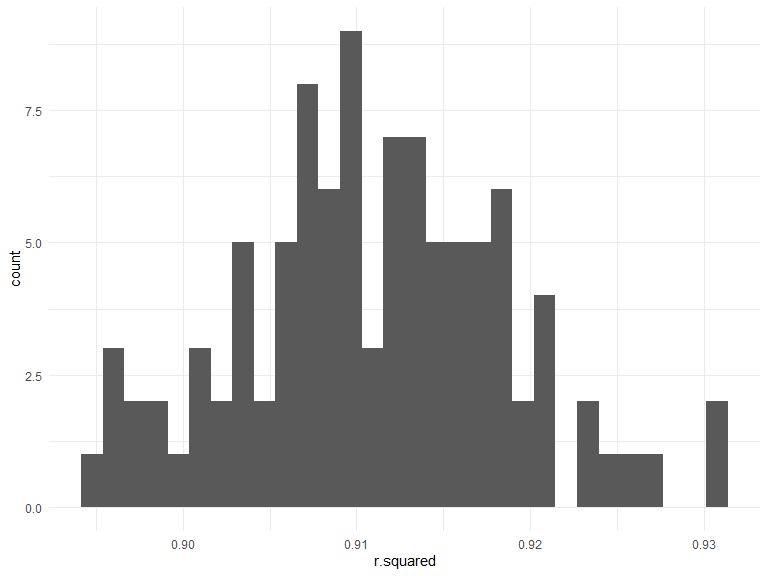
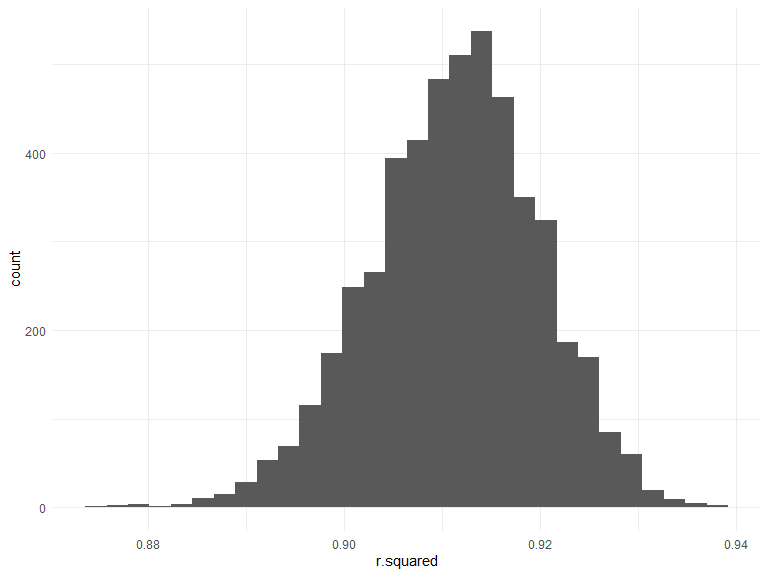
added 4900 bootstraps

diff --git a/p8105_hw6_jsg2145.md b/p8105_hw6_jsg2145.md
@@ -205,7 +205,7 @@ weather_df =
 set.seed(1)
 
 boot_df <- weather_df %>% 
-  bootstrap(n = 100) %>% 
+  bootstrap(n = 5000) %>% 
   mutate(
     models = map(strap, ~lm(tmax ~ tmin, data = .x) ),
     results = map(models, broom::glance),
@@ -224,7 +224,7 @@ boot_df %>%
 
 <img src="p8105_hw6_jsg2145_files/figure-gfm/unnamed-chunk-19-1.png" width="90%" />
 
-The 95% confidence interval of the r-squared estimates is (0.9, 0.93).
+The 95% confidence interval of the r-squared estimates is (0.89, 0.93).
 
 ``` r
 boot_df %>% 
@@ -245,3 +245,9 @@ boot_df %>%
 
 The 95% confidence interval of the log of the product of
 \(\hat{\beta_0}\) and \(\hat{\beta_1}\) is (1.96, 2.06)
+
+The distribution of the r-squared and logs of the products are fairly
+normal, as would be expected
+
+from a large sample size, since our sample data was bootstrapped 5000
+times.
